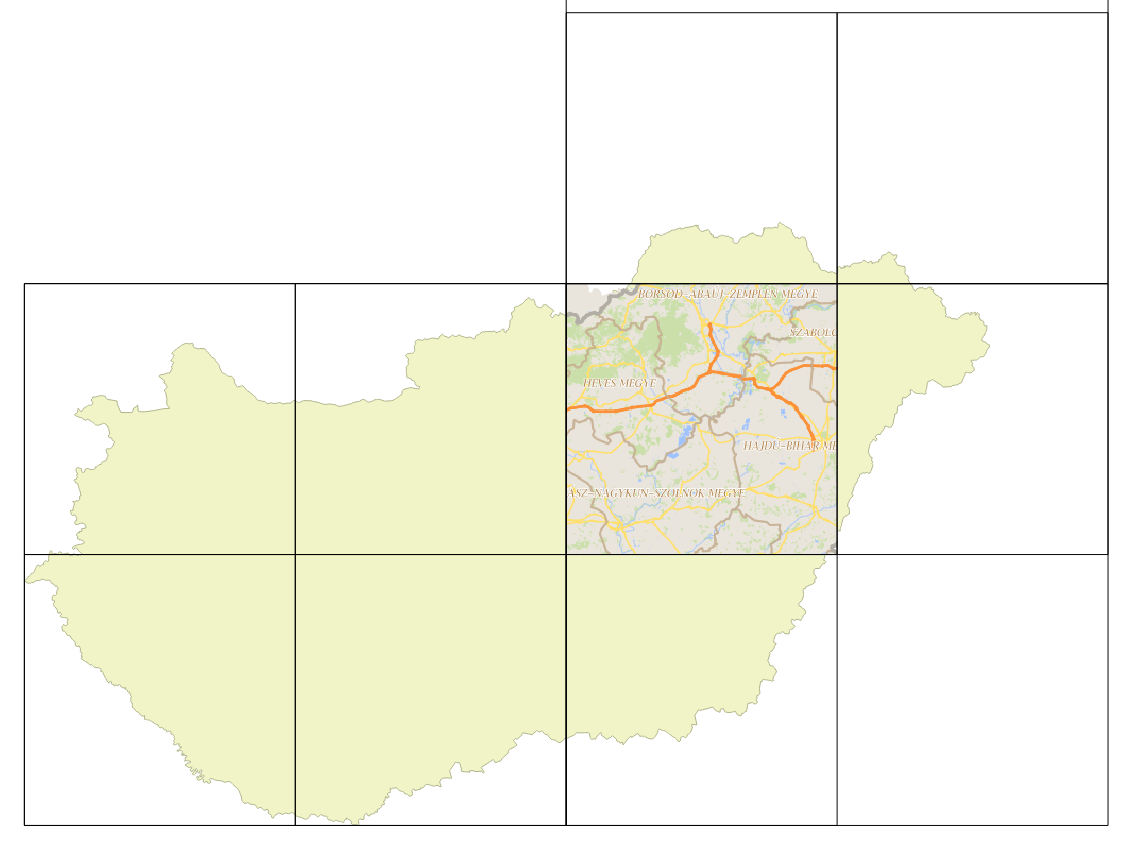
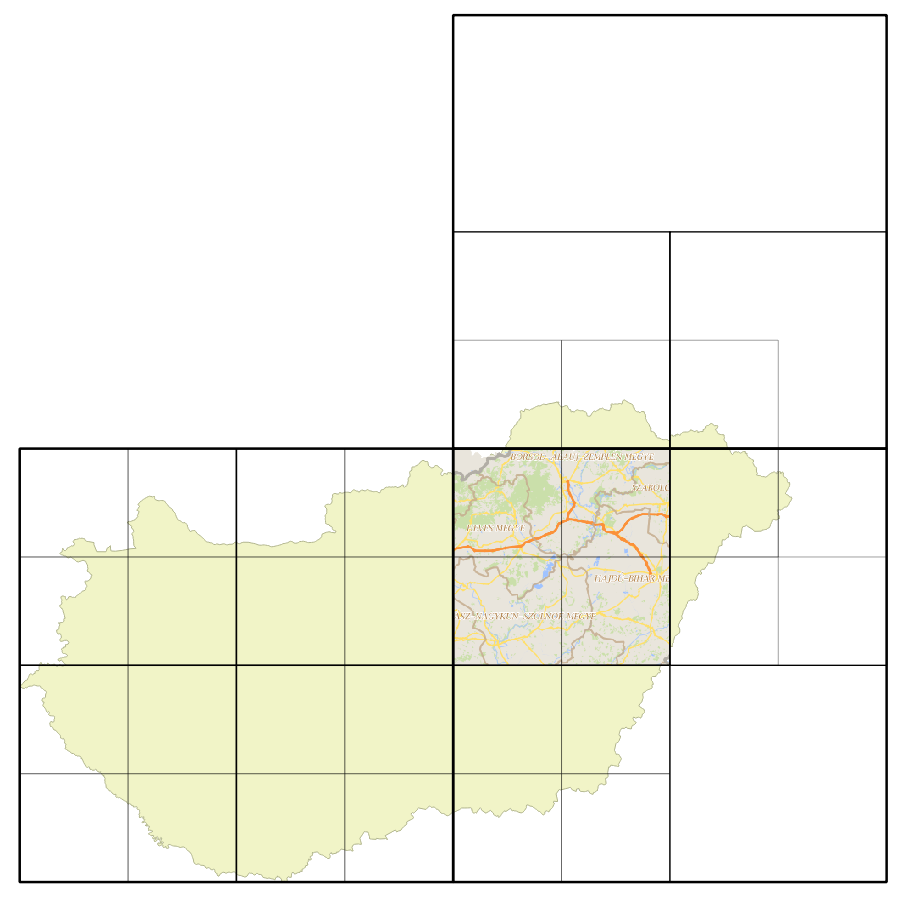
example.png

diff --git a/run.py b/run.py
@@ -21,7 +21,7 @@ wmsParams = None
 # USER DEFINED PARAMETERS #
 ###########################
 
-scales = [4000000, 2000000]
+scales = [4000000, 2000000, 1000000]
 saveDir = r"E:\DATA\wms-thief_tiles"
 url = "http://172.24.0.170:8080/geoserver/wms"
 crs = 23700
